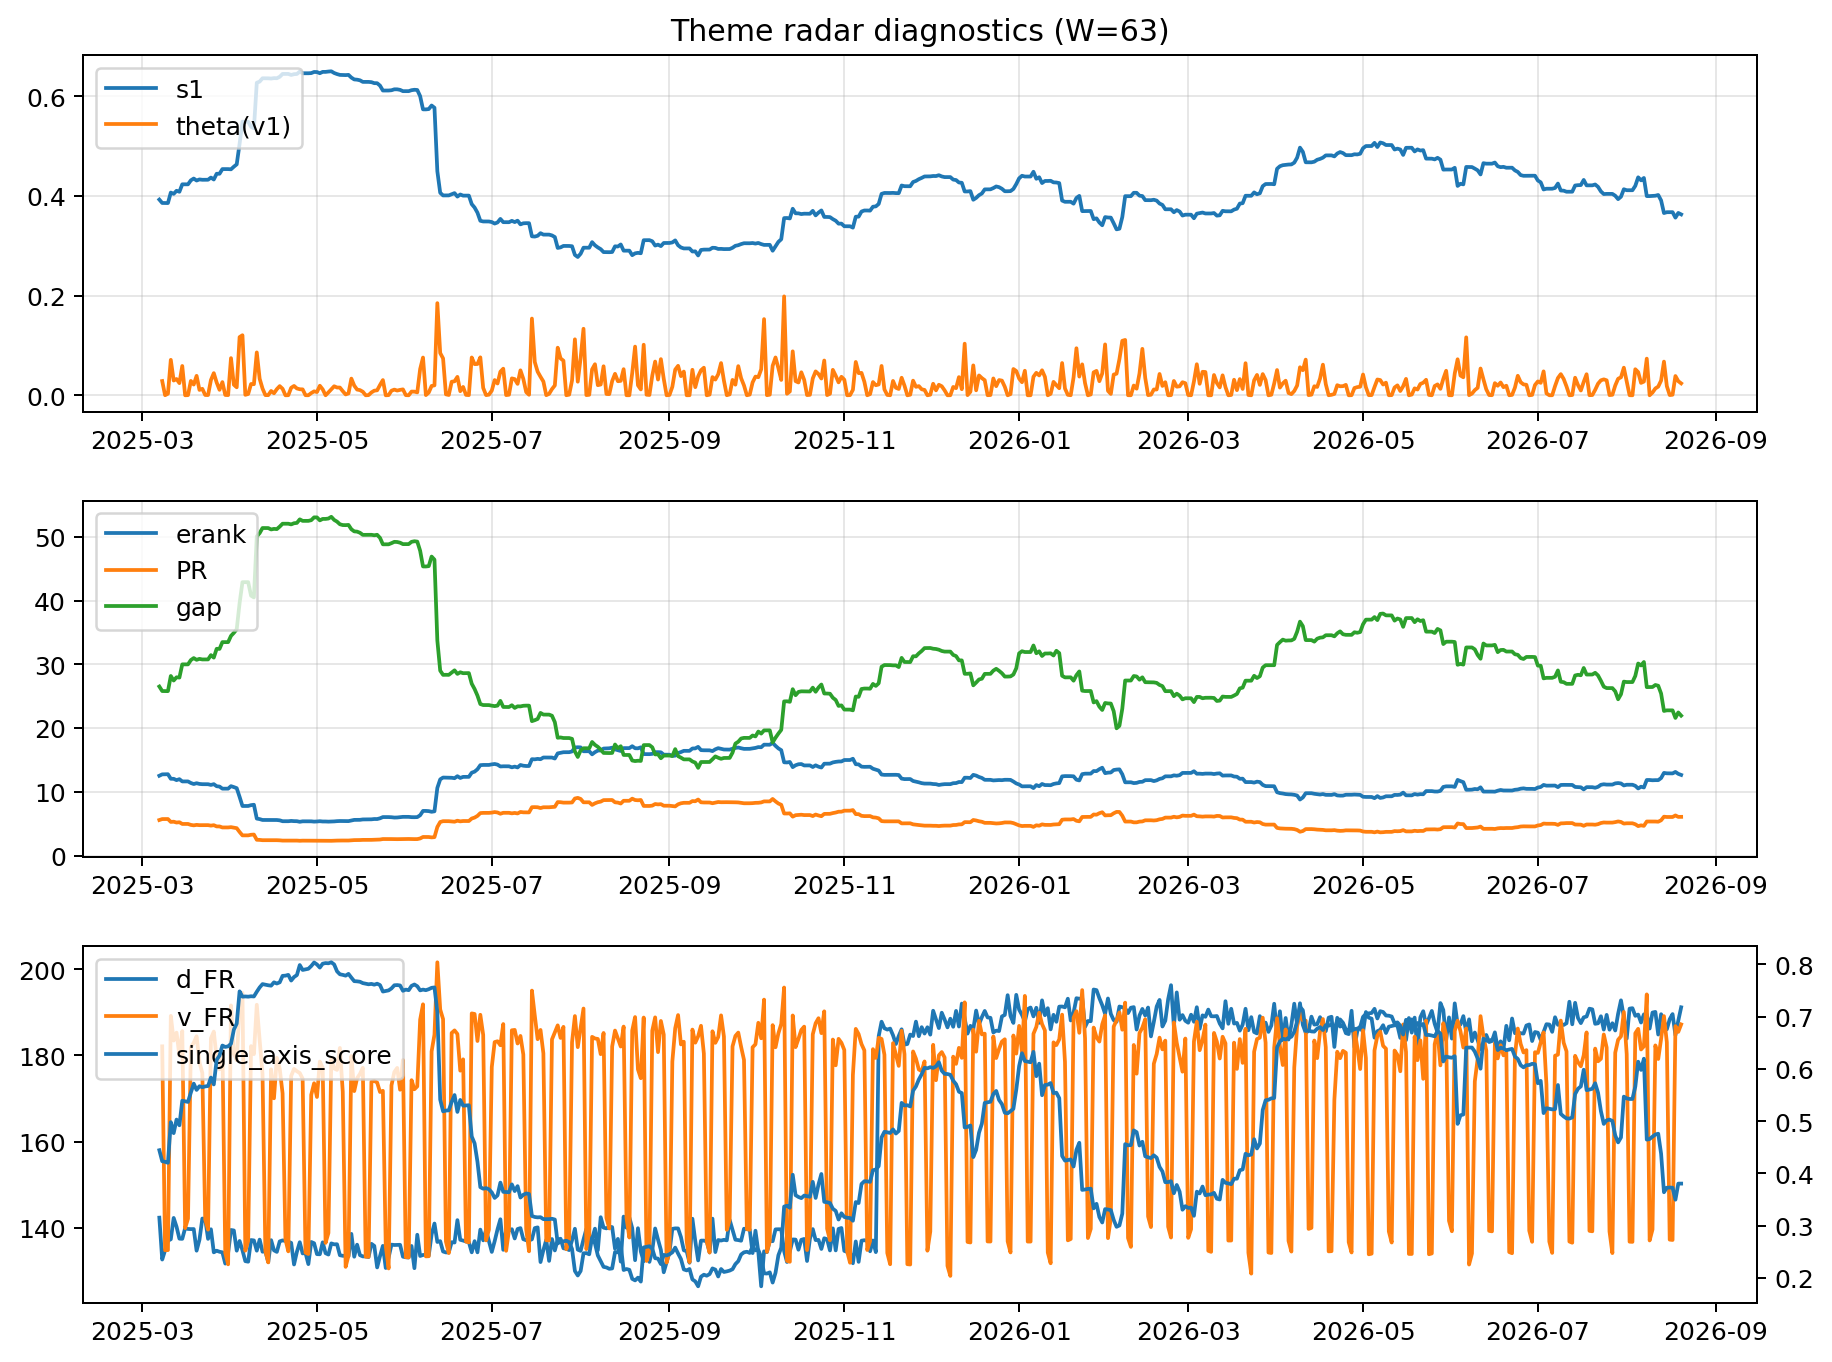
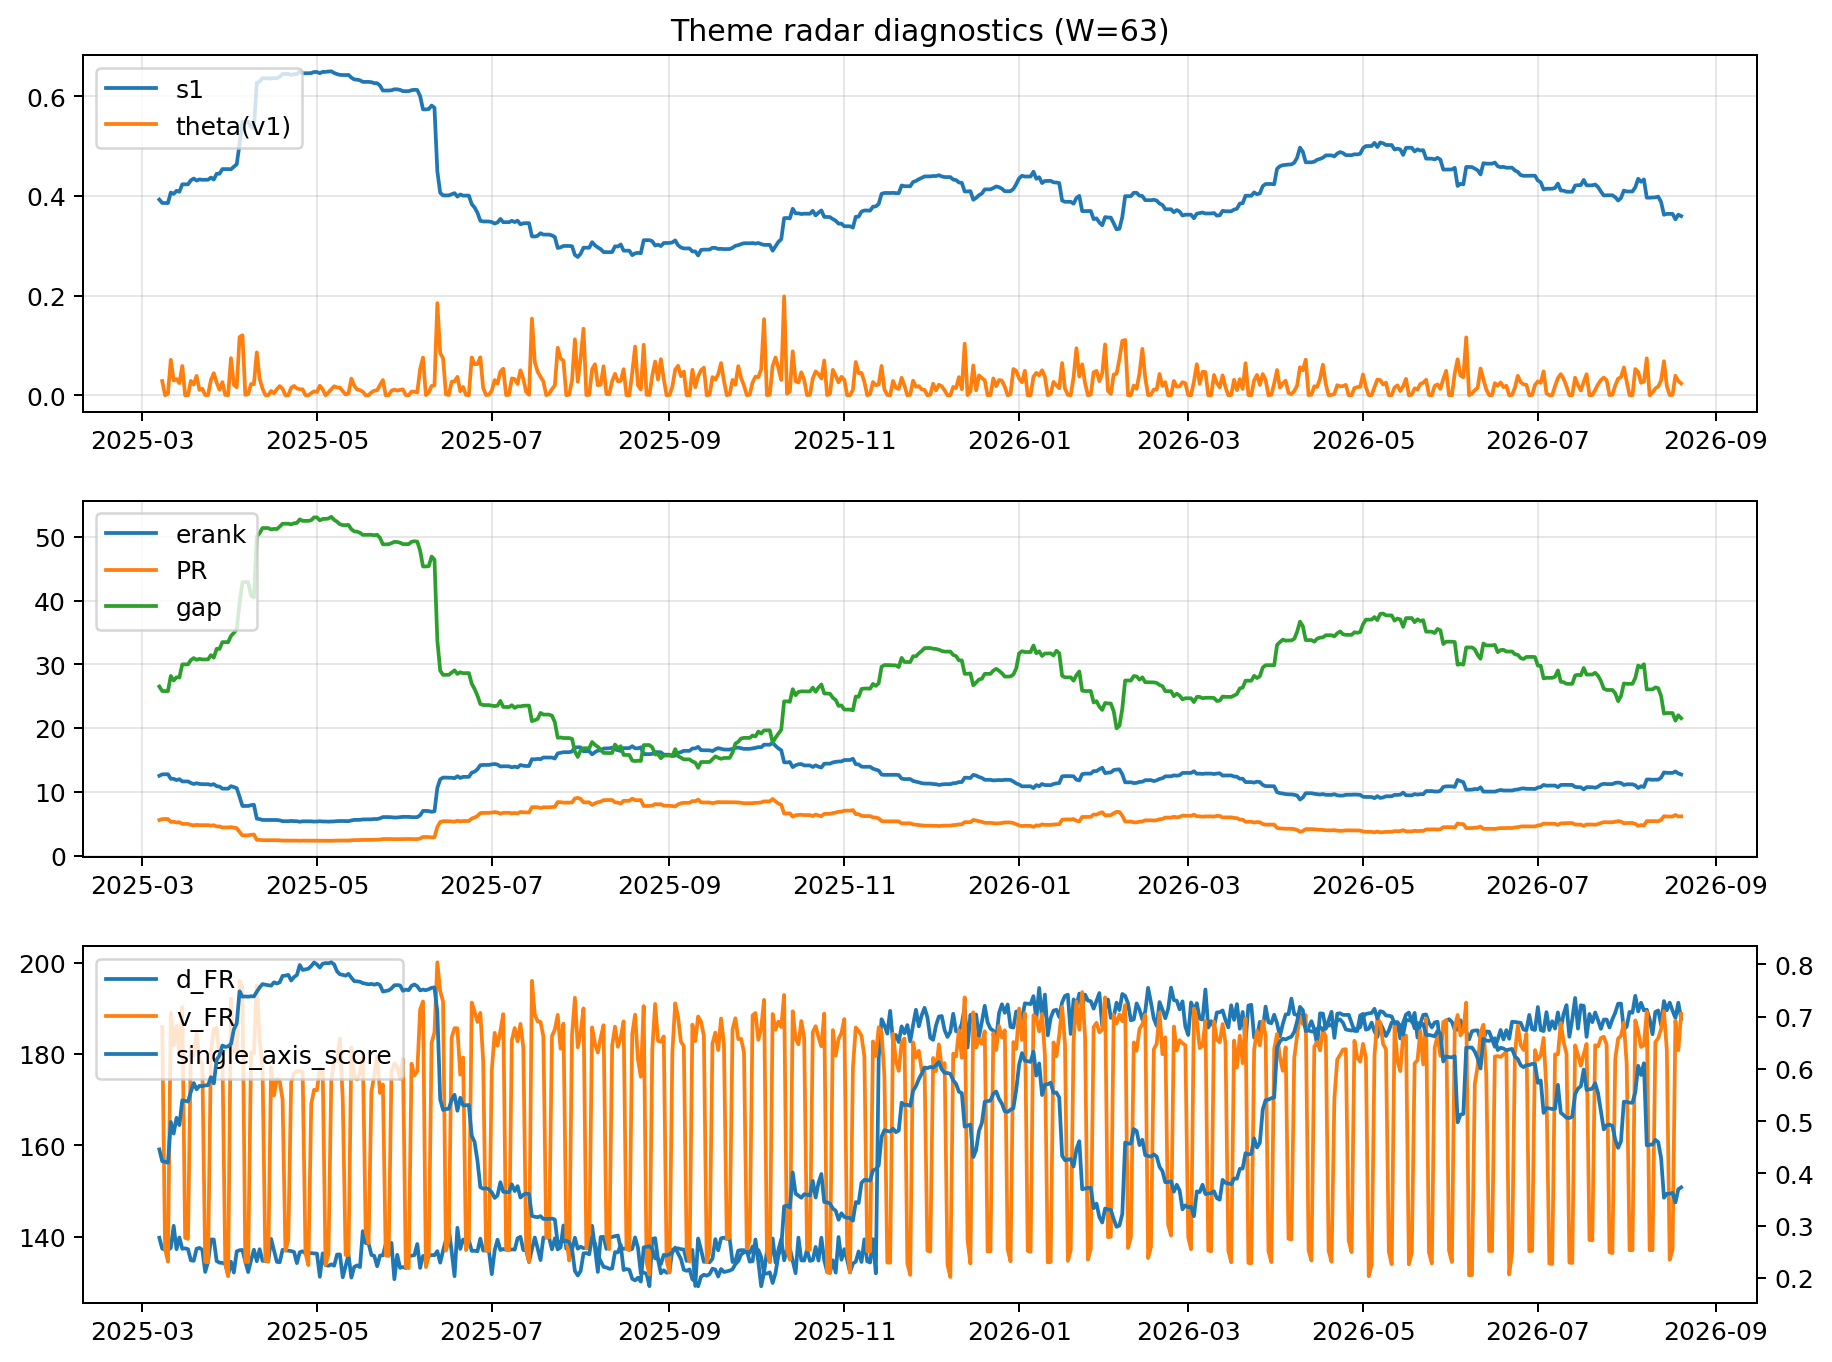
log: 2026-08-20 | sha256:4617accde0fb1c6d96aba68115d3e6f05ad274e524ce4b97092b4ade2e98457f

diff --git a/logs/2026-08-20.md b/logs/2026-08-20.md
@@ -3,52 +3,52 @@
 ![diagnostic W63](../assets/diagnostic/2026-08-20_W63.png)
 
 ## Leaders (v1) — W=63
-- **Nuclear_Uranium** (0.094387756558807)
-- Semis (0.0777343502489615)
-- Quantum (0.0659449219320614)
+- **Nuclear_Uranium** (0.0928898540332698)
+- Semis (0.078260475468556)
+- Quantum (0.066277580928243)
 
 ## Challengers — W=63
-**v2:** Rates (0.0780607114427252), Crypto (0.0728491342996698), Software_Cloud (0.0702881158231133)
-**v3:** Metals (0.0979583862838391), Genomics_Bio (0.08109274449404), Crypto (0.0807085592881459)
+**v2:** Rates (0.0777765089196139), Crypto (0.0717412284365991), Software_Cloud (0.0713404199317022)
+**v3:** Metals (0.0982874497479722), Genomics_Bio (0.0826636824303489), Crypto (0.0815741084060034)
 
 ## Migration (20D slope) — W=63
 **Top risers:**
-- axis_Quantum: 0.0005551373191914
-- axis_Semis: 0.000538306628368
-- axis_Commodities: 0.0003727997995514
-- axis_Grid_Power: 0.0003229677314673
-- axis_Space: 0.0002957880530991
-- axis_Nuclear_Uranium: 0.0002841643086369
-- axis_Sector_Health: 0.0002363003407354
-- axis_Robotics: 0.0002057165966178
-- axis_Sector_Energy: 0.0001890830732589
-- axis_Clean_Broad: 0.0001704175688586
+- axis_Quantum: 0.0005661513831415
+- axis_Semis: 0.0005563657825916
+- axis_Commodities: 0.0003735141888154
+- axis_Grid_Power: 0.0003409672617338
+- axis_Space: 0.0003061775219208
+- axis_Nuclear_Uranium: 0.0002421313830867
+- axis_Sector_Health: 0.0002398188738357
+- axis_Robotics: 0.0002144977001425
+- axis_Sector_Energy: 0.0001927637796696
+- axis_Clean_Broad: 0.0001803141930395
 
 **Top fallers:**
-- axis_Vol: -0.0001122643474046
-- axis_Software_Cloud: -0.0001274136334563
-- axis_Cyber: -0.0001682972662849
-- axis_Credit: -0.0002060849575494
-- axis_MegaCap_AI: -0.0002208085935706
-- axis_Miners: -0.0002607330428653
-- axis_Sector_Materials: -0.0002627908675078
-- axis_Crypto: -0.0004007464726009
-- axis_Metals: -0.0006712007542387
-- axis_Rates: -0.000746351978798
+- axis_Sector_ConsDisc: -0.000112385175941
+- axis_Software_Cloud: -0.0001336373824636
+- axis_Cyber: -0.0001678526213784
+- axis_Credit: -0.0002152902509975
+- axis_MegaCap_AI: -0.0002176724006252
+- axis_Miners: -0.0002570656175911
+- axis_Sector_Materials: -0.0002648707837516
+- axis_Crypto: -0.0004072817198602
+- axis_Metals: -0.0006765536626317
+- axis_Rates: -0.0007499316472589
 
 ## Risk line (W=63)
-- s1: 0.362848290975874
-- theta_v1: 0.0239429014455448
-- v_FR: 187.178030676394
-- single_axis_score: 0.3804511278195489
+- s1: 0.3594348589810615
+- theta_v1: 0.0237426901810233
+- v_FR: 188.77196466184049
+- single_axis_score: 0.3733082706766917
 
 ## Interpretation
-**Regime:** `theme_migration`
+**Regime:** `structure_rewrite`
 
 - Action: Tomorrow watchlist: Quantum, Semis, Commodities, Grid_Power, Space + v2_top1=Rates
-- Action: Hedge note: normal correlation stability.
+- Action: Hedge note: v_FR high → structure is re-writing; treat correlation assumptions as fragile.
 
-- Percentiles (W=63 history): vfr_pct=0.88, theta_pct=0.57, s1_pct=0.27, score_pct=0.32.
+- Percentiles (W=63 history): vfr_pct=0.93, theta_pct=0.57, s1_pct=0.26, score_pct=0.30.
 
 ---
[2 lines of base64/hex data omitted]
